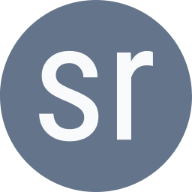
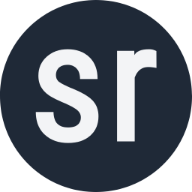
Update colors

diff --git a/themes/congo/assets/css/schemes/cool-gray.css b/themes/congo/assets/css/schemes/cool-gray.css
@@ -1,37 +1,37 @@
-/* Ocean scheme */
+/* Cool gray scheme */
 :root {
   --color-neutral: #fff;
-  /* Cool Gray */
-  --color-neutral-50: #f8fafc;
-  --color-neutral-100: #f1f5f9;
-  --color-neutral-200: #e2e8f0;
-  --color-neutral-300: #cbd5e1;
-  --color-neutral-400: #94a3b8;
-  --color-neutral-500: #64748b;
-  --color-neutral-600: #475569;
-  --color-neutral-700: #334155;
-  --color-neutral-800: #1e293b;
-  --color-neutral-900: #0f172a;
-  /* Cool Gray */
-  --color-primary-50: #f8fafc;
-  --color-primary-100: #f1f5f9;
-  --color-primary-200: #e2e8f0;
-  --color-primary-300: #cbd5e1;
-  --color-primary-400: #94a3b8;
-  --color-primary-500: #64748b;
-  --color-primary-600: #475569;
-  --color-primary-700: #334155;
-  --color-primary-800: #1e293b;
-  --color-primary-900: #0f172a;
-  /* Cool Gray */
-  --color-secondary-50: #f8fafc;
-  --color-secondary-100: #f1f5f9;
-  --color-secondary-200: #e2e8f0;
-  --color-secondary-300: #cbd5e1;
-  --color-secondary-400: #94a3b8;
-  --color-secondary-500: #64748b;
-  --color-secondary-600: #475569;
-  --color-secondary-700: #334155;
-  --color-secondary-800: #1e293b;
-  --color-secondary-900: #0f172a;
+    /* Cool Gray */
+    --color-neutral-50: #F9FAFB;
+    --color-neutral-100: #F3F4F6;
+    --color-neutral-200: #E5E7EB;
+    --color-neutral-300: #D1D5DB;
+    --color-neutral-400: #9CA3AF;
+    --color-neutral-500: #6B7280;
+    --color-neutral-600: #4B5563;
+    --color-neutral-700: #374151;
+    --color-neutral-800: #1F2937;
+    --color-neutral-900: #111827;
+    /* Cool Gray */
+    --color-primary-50: #F9FAFB;
+    --color-primary-100: #F3F4F6;
+    --color-primary-200: #E5E7EB;
+    --color-primary-300: #D1D5DB;
+    --color-primary-400: #9CA3AF;
+    --color-primary-500: #6B7280;
+    --color-primary-600: #4B5563;
+    --color-primary-700: #374151;
+    --color-primary-800: #1F2937;
+    --color-primary-900: #111827;
+    /* Cool Gray */
+    --color-secondary-50: #F9FAFB;
+    --color-secondary-100: #F3F4F6;
+    --color-secondary-200: #E5E7EB;
+    --color-secondary-300: #D1D5DB;
+    --color-secondary-400: #9CA3AF;
+    --color-secondary-500: #6B7280;
+    --color-secondary-600: #4B5563;
+    --color-secondary-700: #374151;
+    --color-secondary-800: #1F2937;
+    --color-secondary-900: #111827;
 }
